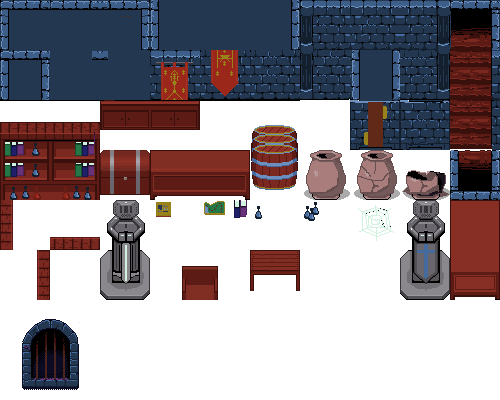
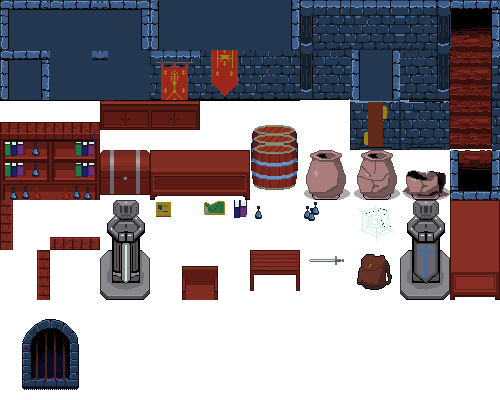
Updated rooms

Changed region(s): [[0.69, 0.63, 0.78, 0.72], [0.63, 0.63, 0.69, 0.66]]

diff --git a/js/Rooms.js b/js/Rooms.js
@@ -8,12 +8,12 @@ rooms = {
     "01": {
         bg: [ 
             70,70,70,70,70,70,70,70,70,70,70,70,70,70,70,70,
-            70,70,70,70,70,70,70,70,70,70,70,70,70,70,70,70,
-            70,70,70,70,70,70,70,70,70,70,70,70,70,70,70,70,
-            70,70,70,70,70,70,70,70,70,70,70,70,70,70,70,70,
-            70,70,70,70,70,70,70,70,70,70,70,70,70,70,70,70,
-            70,70,70,70,70,70,70,70,70,70,70,70,70,70,70,70,
-            70,70,70,70,70,70,70,70,70,70,70,70,70,70,70,70,
+            70,74,74,74,74,74,70,70,70,70,70,70,74,74,74,70,
+            70,74,74,74,74,74,70,70,70,70,70,70,74,74,74,70,
+            70,74,74,74,74,74,70,70,70,70,70,70,70,70,70,70,
+            70,74,74,74,74,74,70,70,70,70,70,70,70,70,70,70,
+            70,74,74,74,74,74,70,70,70,70,70,70,70,70,70,70,
+            70,74,74,74,74,74,71,70,70,70,70,70,70,70,70,70,
             70,70,70,70,70,70,70,70,70,70,70,70,70,70,70,70,
             70,70,70,70,70,70,70,70,70,70,70,70,70,70,70,70,
         ],
@@ -84,7 +84,7 @@ rooms = {
             1,1,1,1,1,1,1,1,1,1,1,1,1,1,1,1,
             1,1,1,1,1,1,1,1,1,1,1,1,1,1,1,1,
             1,1,1,1,1,1,1,1,1,1,1,1,1,1,1,1,
-            1,1,1,1,1,1,1,1,1,1,1,1,1,1,1,1,
+            1,76,76,76,76,76,76,1,1,1,1,1,1,1,1,1,
             1,1,1,1,1,1,1,1,1,1,1,1,1,1,1,1,
             1,1,1,1,1,1,1,1,1,1,1,1,1,1,1,1,
             1,1,1,1,1,1,1,1,1,1,1,1,1,1,1,1,
@@ -120,8 +120,8 @@ rooms = {
         bg: [
             1,1,1,1,1,1,1,1,1,1,1,1,1,1,1,1,
             1,1,1,1,1,1,1,1,1,1,1,1,1,1,1,1,
-            1,1,1,1,1,1,1,1,1,1,1,1,1,1,1,1,
-            1,1,1,1,1,1,1,1,1,1,1,1,1,1,1,1,
+            1,70,70,70,70,70,70,1,1,1,1,1,1,1,1,1,
+            1,70,70,70,70,70,70,1,1,1,1,1,1,1,1,1,
             1,1,1,1,1,1,1,1,1,1,1,1,1,1,1,1,
             1,1,1,1,1,1,1,1,1,1,1,1,1,1,1,1,
             1,1,1,1,1,1,1,1,1,1,1,1,1,1,1,1,
@@ -157,9 +157,9 @@ rooms = {
         bg: [
             1,1,1,1,1,1,1,1,1,1,1,1,1,1,1,1,
             1,1,1,1,1,1,1,1,1,1,1,1,1,1,1,1,
-            1,1,1,1,1,1,1,1,1,1,1,1,1,1,1,1,
-            1,1,1,1,1,1,1,1,1,1,1,1,1,1,1,1,
-            1,1,1,1,1,1,1,1,1,1,1,1,1,1,1,1,
+            1,71,71,71,71,71,71,1,1,1,1,1,1,1,1,1,
+            1,71,71,71,71,71,71,1,1,1,1,1,1,1,1,1,
+            1,1,1,1,1,1,1,1,1,1,1,71,1,1,1,1,
             1,1,1,1,1,1,1,1,1,1,1,1,1,1,1,1,
             1,1,1,1,1,1,1,1,1,1,1,1,1,1,1,1,
             1,1,1,1,1,1,1,1,1,1,1,1,1,1,1,1,
@@ -194,9 +194,9 @@ rooms = {
         bg: [
             1,1,1,1,1,1,1,1,1,1,1,1,1,1,1,1,
             1,1,1,1,1,1,1,1,1,1,1,1,1,1,1,1,
-            1,1,1,1,1,1,1,1,1,1,1,1,1,1,1,1,
-            1,1,1,1,1,1,1,1,1,1,1,1,1,1,1,1,
-            1,1,1,1,1,1,1,1,1,1,1,1,1,1,1,1,
+            8,71,71,71,71,71,71,71,71,71,71,71,71,71,71,9,
+            8,71,71,71,71,71,71,71,71,71,71,71,71,71,71,9,
+            8,71,71,71,71,71,71,71,71,71,71,71,71,71,71,9,
             1,1,1,1,1,1,1,1,1,1,1,1,1,1,1,1,
             1,1,1,1,1,1,1,1,1,1,1,1,1,1,1,1,
             1,1,1,1,1,1,1,1,1,1,1,1,1,1,1,1,
@@ -294,12 +294,12 @@ rooms = {
         [
         0, 0, 0, 0, 0, 0, 0, 0, 0, 0, 0, 0, 0, 0, 0, 0,
         0, 0, 0, 0, 0, 0, 0, 0, 0, 0, 0, 0, 0, 0, 0, 0,
+        8,71,71,71,71,71,71,71,71,71,71,71,71,71,71,9,
+        8,71,71,71,71,71,71,71,71,71,71,71,71,71,71,9,
+        8,71,71,71,71,71,71,71,71,71,71,71,71,71,71,9,
         0, 0, 0, 0, 0, 0, 0, 0, 0, 0, 0, 0, 0, 0, 0, 0,
         0, 0, 0, 0, 0, 0, 0, 0, 0, 0, 0, 0, 0, 0, 0, 0,
-        0, 0, 0, 0, 0, 0, 0, 0, 0, 0, 0, 0, 0, 0, 0, 0,
-        0, 0, 0, 0, 0, 0, 0, 0, 0, 0, 0, 0, 0, 0, 0, 0,
-        0, 0, 0, 0, 0, 0, 0, 0, 0, 0, 0, 0, 0, 0, 0, 0,
-        0, 0, 0, 0, 0, 0, 0, 0, 0, 0, 0, 0, 0, 0, 0, 0,
+        8,71,71,71,71,71,71,71,71,71,71,71,71,71,71,9,
         0, 0, 0, 0, 0, 0, 0, 0, 0, 0, 0, 0, 0, 0, 0, 0
         ]
     },
@@ -309,12 +309,12 @@ rooms = {
         bg: [
             1,1,1,1,1,1,1,1,1,1,1,1,1,1,1,1,
             1,1,1,1,1,1,1,1,1,1,1,1,1,1,1,1,
-            1,1,1,1,1,1,1,1,1,1,1,1,1,1,1,1,
-            1,1,1,1,1,1,1,1,1,1,1,1,1,1,1,1,
-            1,1,1,1,1,1,1,1,1,1,1,1,1,1,1,1,
-            1,1,1,1,1,1,1,1,1,1,1,1,1,1,1,1,
-            1,1,1,1,1,1,1,1,1,1,1,1,1,1,1,1,
-            1,1,1,1,1,1,1,1,1,1,1,1,1,1,1,1,
+            8,71,71,71,71,71,71,71,71,71,71,71,71,71,71,9,
+            8,71,71,71,71,71,71,71,71,71,71,71,71,71,71,9,
+            8,71,71,71,71,71,71,71,71,71,71,71,71,71,71,9,
+            8,71,71,71,71,71,71,71,71,71,71,71,71,71,71,9,
+            8,71,71,71,71,71,71,71,71,71,71,71,71,71,71,9,
+            8,71,71,71,71,71,71,71,71,71,71,71,71,71,71,9,
             1,1,1,1,1,1,1,1,1,1,1,1,1,1,1,1,
         ],
         floor:
@@ -695,33 +695,33 @@ rooms = {
         bg: [
             1,1,1,1,1,1,1,1,1,1,1,1,1,1,1,1,
             1,1,1,1,1,1,1,1,1,1,1,1,1,1,1,1,
-            1,221,222,1,1,1,1,1,1,1,1,1,1,221,222,1,
-            1,1,1,1,1,1,1,1,1,1,1,1,1,1,1,1,
-            1,1,1,1,1,1,1,1,1,1,1,1,1,1,1,1,
-            1,1,1,1,1,1,1,1,1,1,1,1,1,1,1,1,
-            1,1,1,1,1,1,1,1,1,1,1,1,1,1,1,1,
-            1,1,1,1,1,1,1,1,1,1,1,1,1,1,1,1,
+            11,71,71,71,71,71,71,71,71,71,71,71,71,71,71, 9,
+            11,71,71,71,71,71,71,71,71,71,71,71,71,71,71, 9,
+            11,71,71,71,71,71,71,71,71,71,71,71,71,71,71, 9,
+            11,71,71,71,71,71,71,71,71,71,71,71,71,71,71, 9,
+            11,71,71,71,71,71,71,71,71,71,71,71,71,71,71, 9,
+            11,71,71,71,71,71,71,71,71,71,71,71,71,71,71, 9,
             1,1,1,1,1,1,1,1,1,1,1,1,1,1,1,1,
         ],
         floor:
         [
-            10,10,10,10,10,10,11,71,71, 9,10,10,10,10,10,10,
-            11,13,13,65,59,66,13,71,71,13,68,59,65,13,13, 9,
-            11,23,23,69,60,69,23,71,71,23,69,60,69,23,23, 9,
-            11,71,71,71,71,71,71,71,71,71,71,71,71,71,71, 9,
-            11,71,71,71,71,71,71,71,71,71,71,71,71,71,71, 9,
-            11,71,71,71,71,71,71,71,71,71,71,71,71,71,71, 9,
-            11,71,71,71,71,71,71,71,71,71,71,71,71,71,71, 9,
-            11,71,71,71,71,71,71,71,71,71,71,71,71,71,71, 9,
-            17, 7, 7, 7, 7, 7, 8,71,71, 6, 7, 7, 7, 7, 7,18
+            10,10,10,10,10,10,11,71,71, 9,10, 10,10,10, 10,10,
+            11,13,13,65,59,66,13,71,71,13,68, 59,65,13, 13, 9,
+            11,23,23,69,60,69,23,71,71,23,69, 60,69,23, 23, 9,
+            11,71,71,71,71,71,71,71,71,71,71, 71,71,71,226, 9,
+            11,71,71,71,71,71,71,71,71,71,71,219,71,71, 71, 9,
+            11,71,71,71,71,71,71,71,71,71,71,220,71,71, 71, 9,
+            11,71,71,71,71,71,71,71,71,71,71, 71,71,71, 71, 9,
+            11,71,71,71,71,71,71,71,71,71,71, 71,71,71, 71, 9,
+            17, 7, 7, 7, 7, 7, 8,71,71, 6, 7,  7, 7, 7,  7,18
         ],
         ceiling:
         [
         0,0,0,0,0,0,0,0,0,0,0,0,0,0,0,0,
         0,0,0,0,0,0,0,0,0,0,0,0,0,0,0,0, 
+        0,221,222,0,0,0,0,0,0,0,0,0,0,221,222,0,
         0,0,0,0,0,0,0,0,0,0,0,0,0,0,0,0,
-        0,0,0,0,0,0,0,0,0,0,0,0,0,0,0,0,
-        0,0,0,0,0,0,0,0,0,0,0,0,0,0,0,0,
+        0,0,0,0,0,0,0,0,0,0,0,225,0,0,0,0,
         0,0,0,0,0,0,0,0,0,0,0,0,0,0,0,0,
         0,0,0,0,0,0,0,0,0,0,0,0,0,0,0,0,
         0,0,0,0,0,0,0,0,0,0,0,0,0,0,0,0,
@@ -797,10 +797,10 @@ rooms = {
         0,0,0,0,0,0,0,0,0,0,0,0,0,0,0,0, 
         0,221,222,0,0,0,0,0,0,0,0,0,0,0,0,0,
         0,0,0,0,0,0,0,0,0,0,0,0,0,0,0,0,
+        0,0,0,0,0,0,0,0,0,0,0,206,0,0,0,0,
         0,0,0,0,0,0,0,0,0,0,0,0,0,0,0,0,
-        0,0,0,0,0,0,0,0,0,0,0,0,0,0,0,0,
-        0,0,0,0,0,0,0,0,0,0,0,0,0,0,0,0,
-        0,0,0,0,0,0,0,0,0,0,0,0,0,0,0,0,
+        0,0,0,0,0,0,0,0,0,0,0,209,0,0,0,0,
+        0,0,0,0,0,0,0,0,0,0,0,208,0,0,0,0,
         0,0,0,0,0,0,0,0,0,0,0,0,0,0,0,0
         ]
     },

diff --git a/js/ImageLoading.js b/js/ImageLoading.js
@@ -143,6 +143,8 @@ function loadImages() {
     {tileType:TILE_DESK_CHAIR_LEFT, imgX: 150, imgY: 250, theFile:"dungeonWalls.png"},
     {tileType:TILE_DESK_CHAIR_RIGHT, imgX: 200, imgY: 250, theFile:"dungeonWalls.png"},
     {tileType:TILE_TABLE, imgX: 250, imgY: 250, theFile:"dungeonWalls.png"},
+    {tileType:TILE_DESK_TOP_OBJECT_5, imgX: 300, imgY: 250, theFile:"dungeonWalls.png"},
+    {tileType:TILE_BAG, imgX: 350, imgY: 250, theFile:"dungeonWalls.png"},
     {tileType:TILE_STATUE_2_BOTTOM, imgX: 400, imgY: 250, theFile:"dungeonWalls.png"},
     {tileType:TILE_DESK_SIDE_BOTTOM, imgX: 450, imgY: 250, theFile:"dungeonWalls.png"},
 

diff --git a/js/tileData.js b/js/tileData.js
@@ -169,7 +169,9 @@ TILES = {
     TILE_WALL_WINDOW_TR: 222,
     TILE_WALL_WINDOW_BL: 223,
     TILE_WALL_WINDOW_BR: 224,
-    EMPTY: 225 //USE THIS ONE NEXT!
+    TILE_DESK_TOP_OBJECT_5: 225,
+    TILE_BAG: 226,
+    EMPTY: 227 //USE THIS ONE NEXT!
   };
 
   for(const [key, value] of Object.entries(TILES)) {
